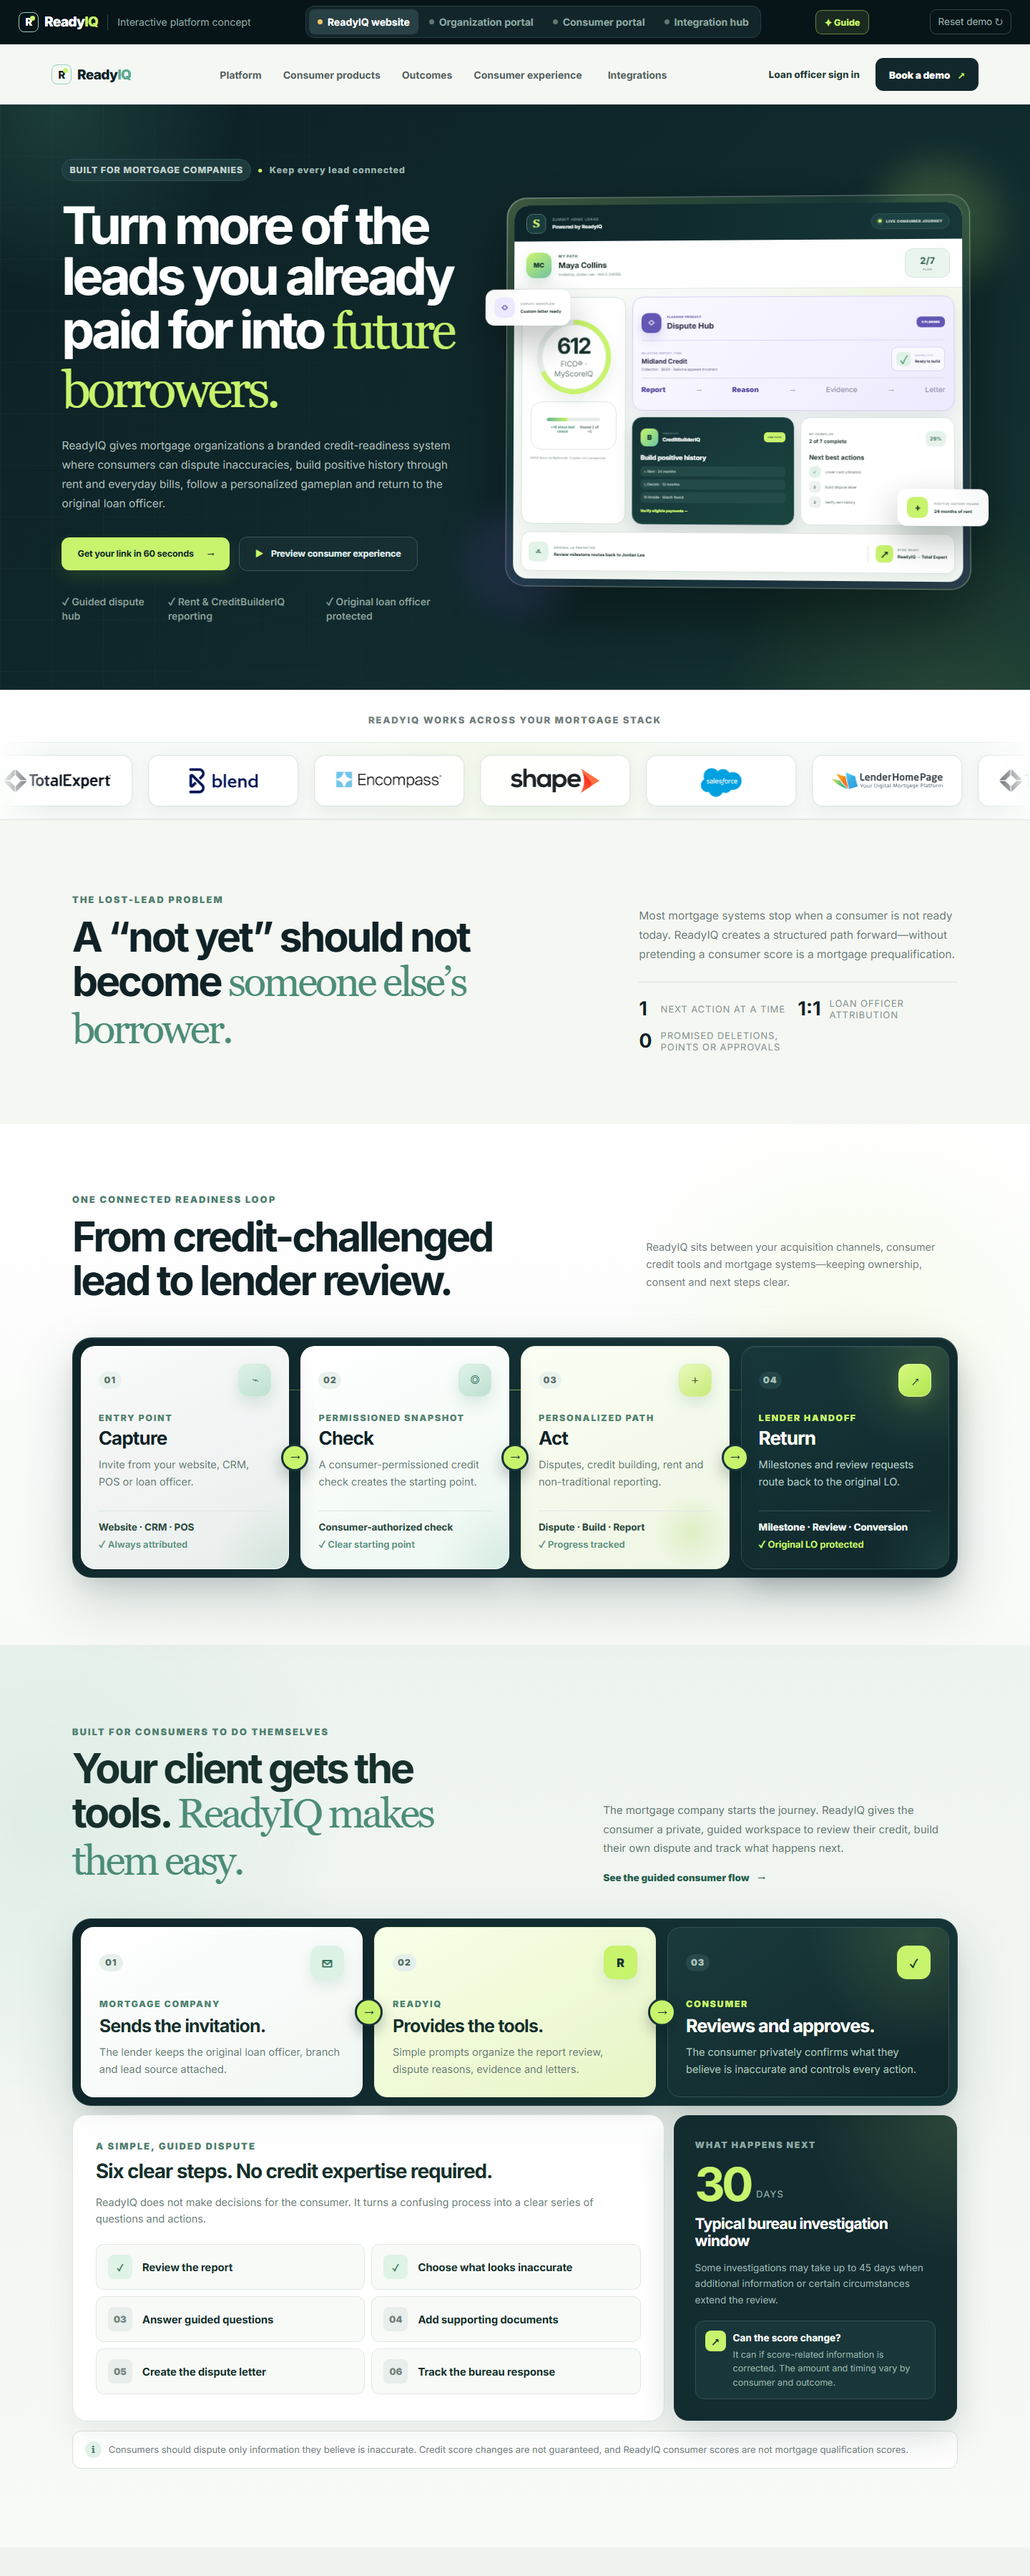
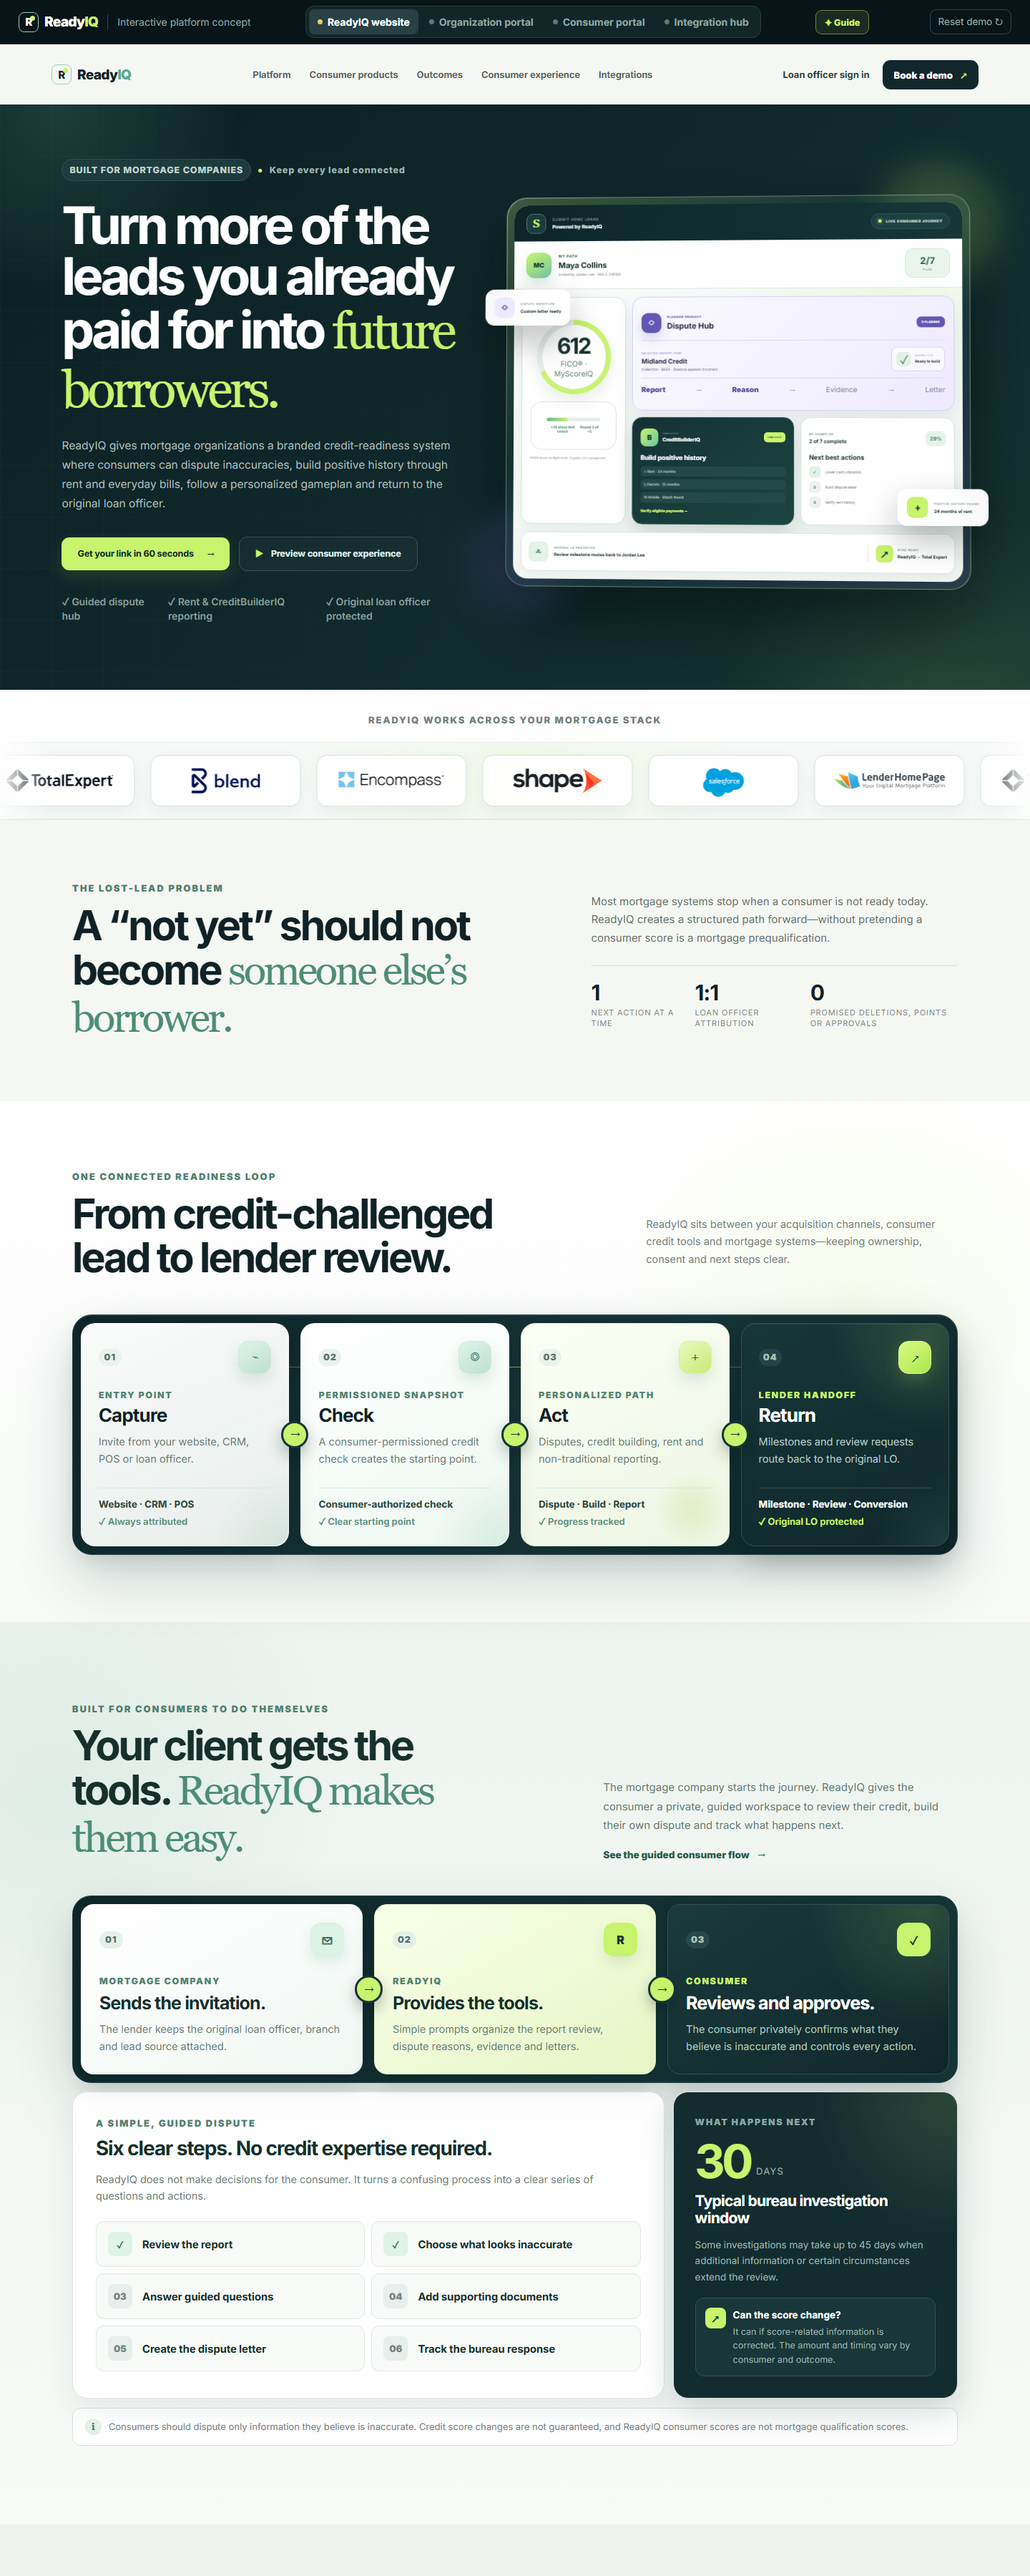
site: nav on one calm line (lighter weight, nowrap, hamburger to 1060px); lost-lead problem section rebalanced with a 3-up stats strip

diff --git a/site/app.css b/site/app.css
@@ -325,6 +325,28 @@ a.primary-dark,a.primary-lime,a.outline-button{text-decoration:none;display:inli
 .mode-switch button{white-space:nowrap}
 @media(max-width:1300px){.demo-title>span:last-child,.demo-title .demo-divider{display:none}.mode-switch button{padding:8px 10px;font-size:12px}.reset-button,.guide-btn{white-space:nowrap}}
 
+/* ---------- website nav: one calm line, never wraps ---------- */
+.b2b-nav{gap:24px}
+.b2b-nav .brand-mark{flex:none}
+.b2b-links{gap:26px;flex:1;justify-content:center;min-width:0}
+.b2b-links a,.b2b-links button{font-size:13px;font-weight:650;white-space:nowrap;letter-spacing:-.005em;color:#4b5c57;padding:0}
+.b2b-links a:hover,.b2b-links button:hover{color:#102226}
+.b2b-nav-actions{flex:none;gap:6px}
+.b2b-login{font-size:13px;font-weight:700;white-space:nowrap;padding:10px 12px}
+.b2b-demo{white-space:nowrap;padding:12px 16px;font-size:13px}
+@media(max-width:1300px){.b2b-links{gap:18px}.b2b-links a,.b2b-links button{font-size:12.5px}}
+@media(max-width:1060px) and (min-width:761px){.b2b-links{display:none;position:absolute;left:5%;right:5%;top:76px;background:#fff;border:1px solid #dde5e0;border-radius:14px;padding:12px;box-shadow:var(--soft);flex-direction:column;align-items:stretch;gap:0;z-index:20}.b2b-links.open{display:flex}.b2b-links a,.b2b-links button{padding:12px 14px;text-align:left;font-size:14px}.b2b-menu{display:block}}
+
+/* ---------- "the lost-lead problem": tighter, balanced, stats as a 3-up strip ---------- */
+.b2b-problem{padding:84px max(7%,calc((100vw - 1350px)/2));grid-template-columns:minmax(0,1.1fr) minmax(0,.9fr);gap:8%;align-items:center}
+.b2b-problem h2{max-width:640px}
+.problem-copy>p{font-size:15px;line-height:1.7;color:#5f716b;max-width:520px;margin:0}
+.problem-copy>div{display:grid;grid-template-columns:.8fr .9fr 1.3fr;grid-template-rows:auto auto;grid-auto-flow:column;column-gap:18px;row-gap:6px;margin-top:26px;border-top:1px solid #d8e1dc;padding-top:22px;align-items:start}
+.problem-copy strong{font-size:30px;letter-spacing:-.04em;line-height:1;color:#102226}
+.problem-copy span{font-size:11px;letter-spacing:.08em;color:#7d8d88;line-height:1.35;text-transform:uppercase}
+@media(max-width:1100px){.b2b-problem{grid-template-columns:1fr;gap:26px;padding:64px 6%}.b2b-problem h2{max-width:none;font-size:clamp(32px,4.2vw,44px)}.problem-copy>p{max-width:none}}
+@media(max-width:560px){.problem-copy>div{grid-template-columns:1fr 1fr}.problem-copy strong{font-size:26px}}
+
 /* consumer-v2.css — the consumer portal lifted to the marketing site's level: same tokens, same devices
    (dark gradient + grid + auras, white platform window with glass floats, the dark path frame, big Inter + Georgia italics). */
 

diff --git a/src/styles/additions.css b/src/styles/additions.css
@@ -113,3 +113,25 @@ a.primary-dark,a.primary-lime,a.outline-button{text-decoration:none;display:inli
 /* demo toolbar on laptop widths: never wrap the mode buttons */
 .mode-switch button{white-space:nowrap}
 @media(max-width:1300px){.demo-title>span:last-child,.demo-title .demo-divider{display:none}.mode-switch button{padding:8px 10px;font-size:12px}.reset-button,.guide-btn{white-space:nowrap}}
+
+/* ---------- website nav: one calm line, never wraps ---------- */
+.b2b-nav{gap:24px}
+.b2b-nav .brand-mark{flex:none}
+.b2b-links{gap:26px;flex:1;justify-content:center;min-width:0}
+.b2b-links a,.b2b-links button{font-size:13px;font-weight:650;white-space:nowrap;letter-spacing:-.005em;color:#4b5c57;padding:0}
+.b2b-links a:hover,.b2b-links button:hover{color:#102226}
+.b2b-nav-actions{flex:none;gap:6px}
+.b2b-login{font-size:13px;font-weight:700;white-space:nowrap;padding:10px 12px}
+.b2b-demo{white-space:nowrap;padding:12px 16px;font-size:13px}
+@media(max-width:1300px){.b2b-links{gap:18px}.b2b-links a,.b2b-links button{font-size:12.5px}}
+@media(max-width:1060px) and (min-width:761px){.b2b-links{display:none;position:absolute;left:5%;right:5%;top:76px;background:#fff;border:1px solid #dde5e0;border-radius:14px;padding:12px;box-shadow:var(--soft);flex-direction:column;align-items:stretch;gap:0;z-index:20}.b2b-links.open{display:flex}.b2b-links a,.b2b-links button{padding:12px 14px;text-align:left;font-size:14px}.b2b-menu{display:block}}
+
+/* ---------- "the lost-lead problem": tighter, balanced, stats as a 3-up strip ---------- */
+.b2b-problem{padding:84px max(7%,calc((100vw - 1350px)/2));grid-template-columns:minmax(0,1.1fr) minmax(0,.9fr);gap:8%;align-items:center}
+.b2b-problem h2{max-width:640px}
+.problem-copy>p{font-size:15px;line-height:1.7;color:#5f716b;max-width:520px;margin:0}
+.problem-copy>div{display:grid;grid-template-columns:.8fr .9fr 1.3fr;grid-template-rows:auto auto;grid-auto-flow:column;column-gap:18px;row-gap:6px;margin-top:26px;border-top:1px solid #d8e1dc;padding-top:22px;align-items:start}
+.problem-copy strong{font-size:30px;letter-spacing:-.04em;line-height:1;color:#102226}
+.problem-copy span{font-size:11px;letter-spacing:.08em;color:#7d8d88;line-height:1.35;text-transform:uppercase}
+@media(max-width:1100px){.b2b-problem{grid-template-columns:1fr;gap:26px;padding:64px 6%}.b2b-problem h2{max-width:none;font-size:clamp(32px,4.2vw,44px)}.problem-copy>p{max-width:none}}
+@media(max-width:560px){.problem-copy>div{grid-template-columns:1fr 1fr}.problem-copy strong{font-size:26px}}
